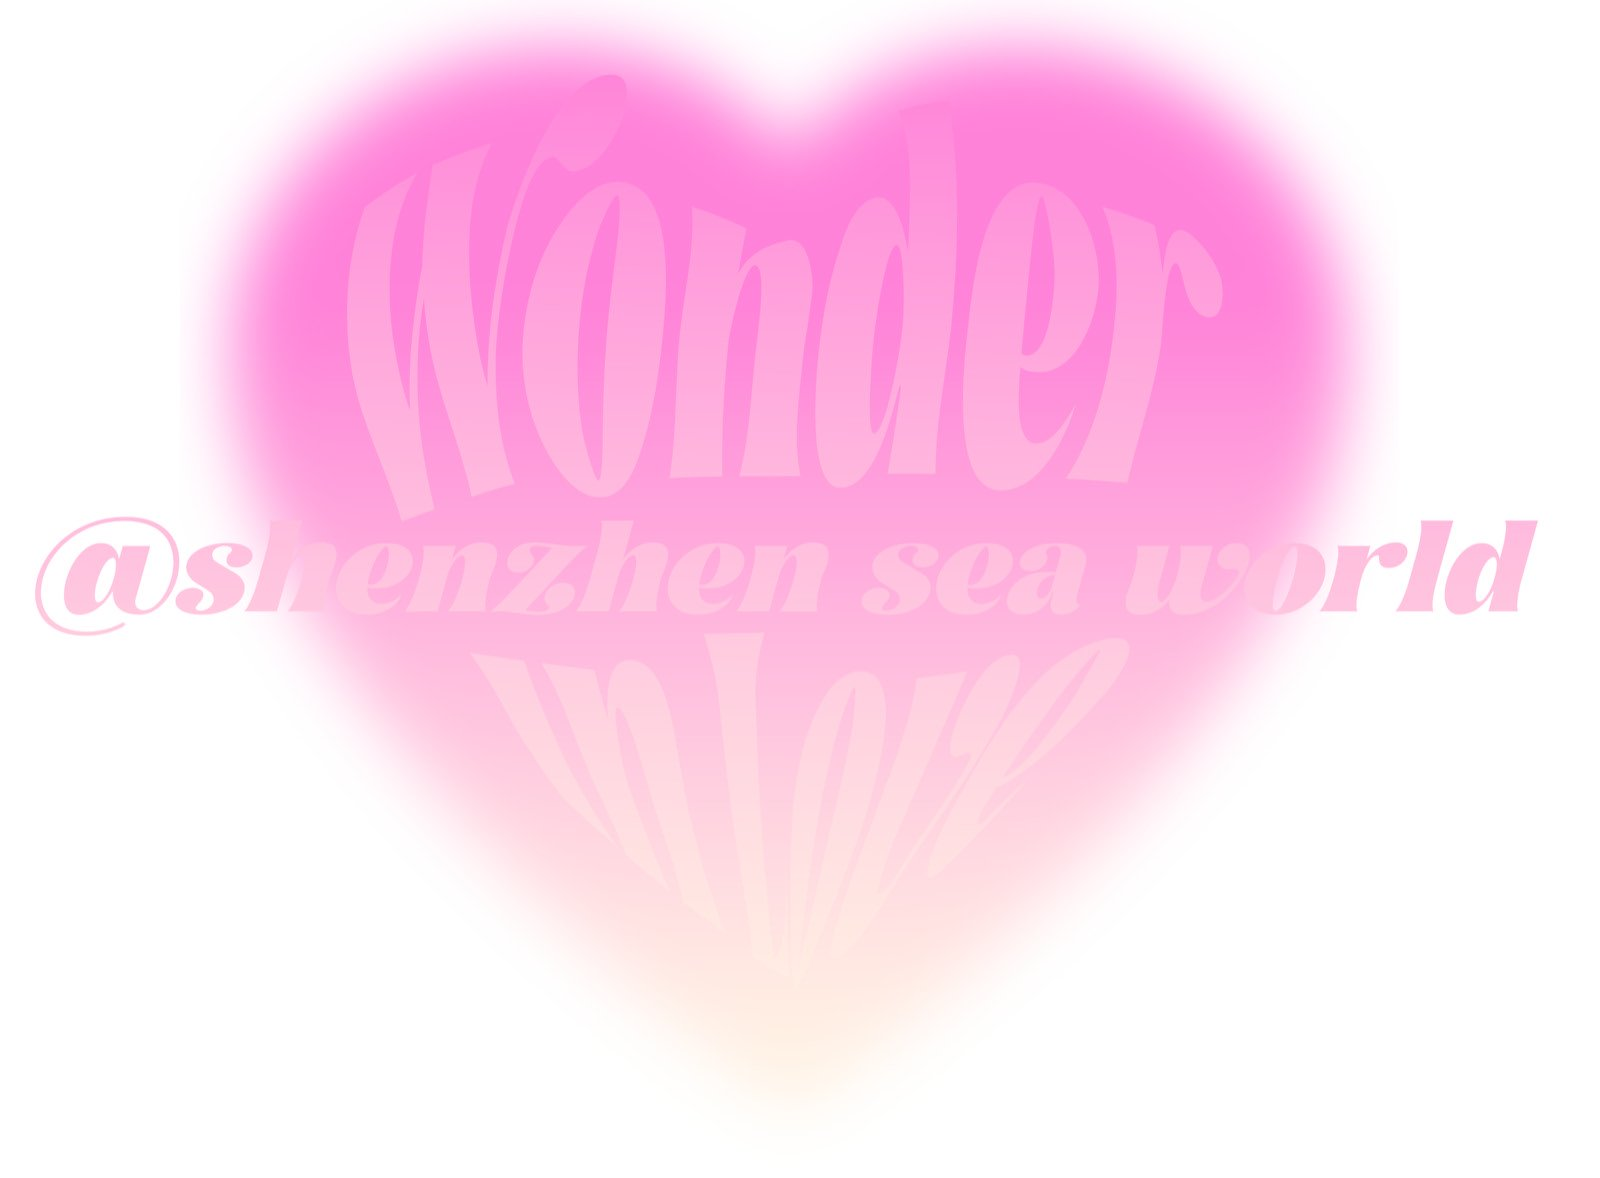
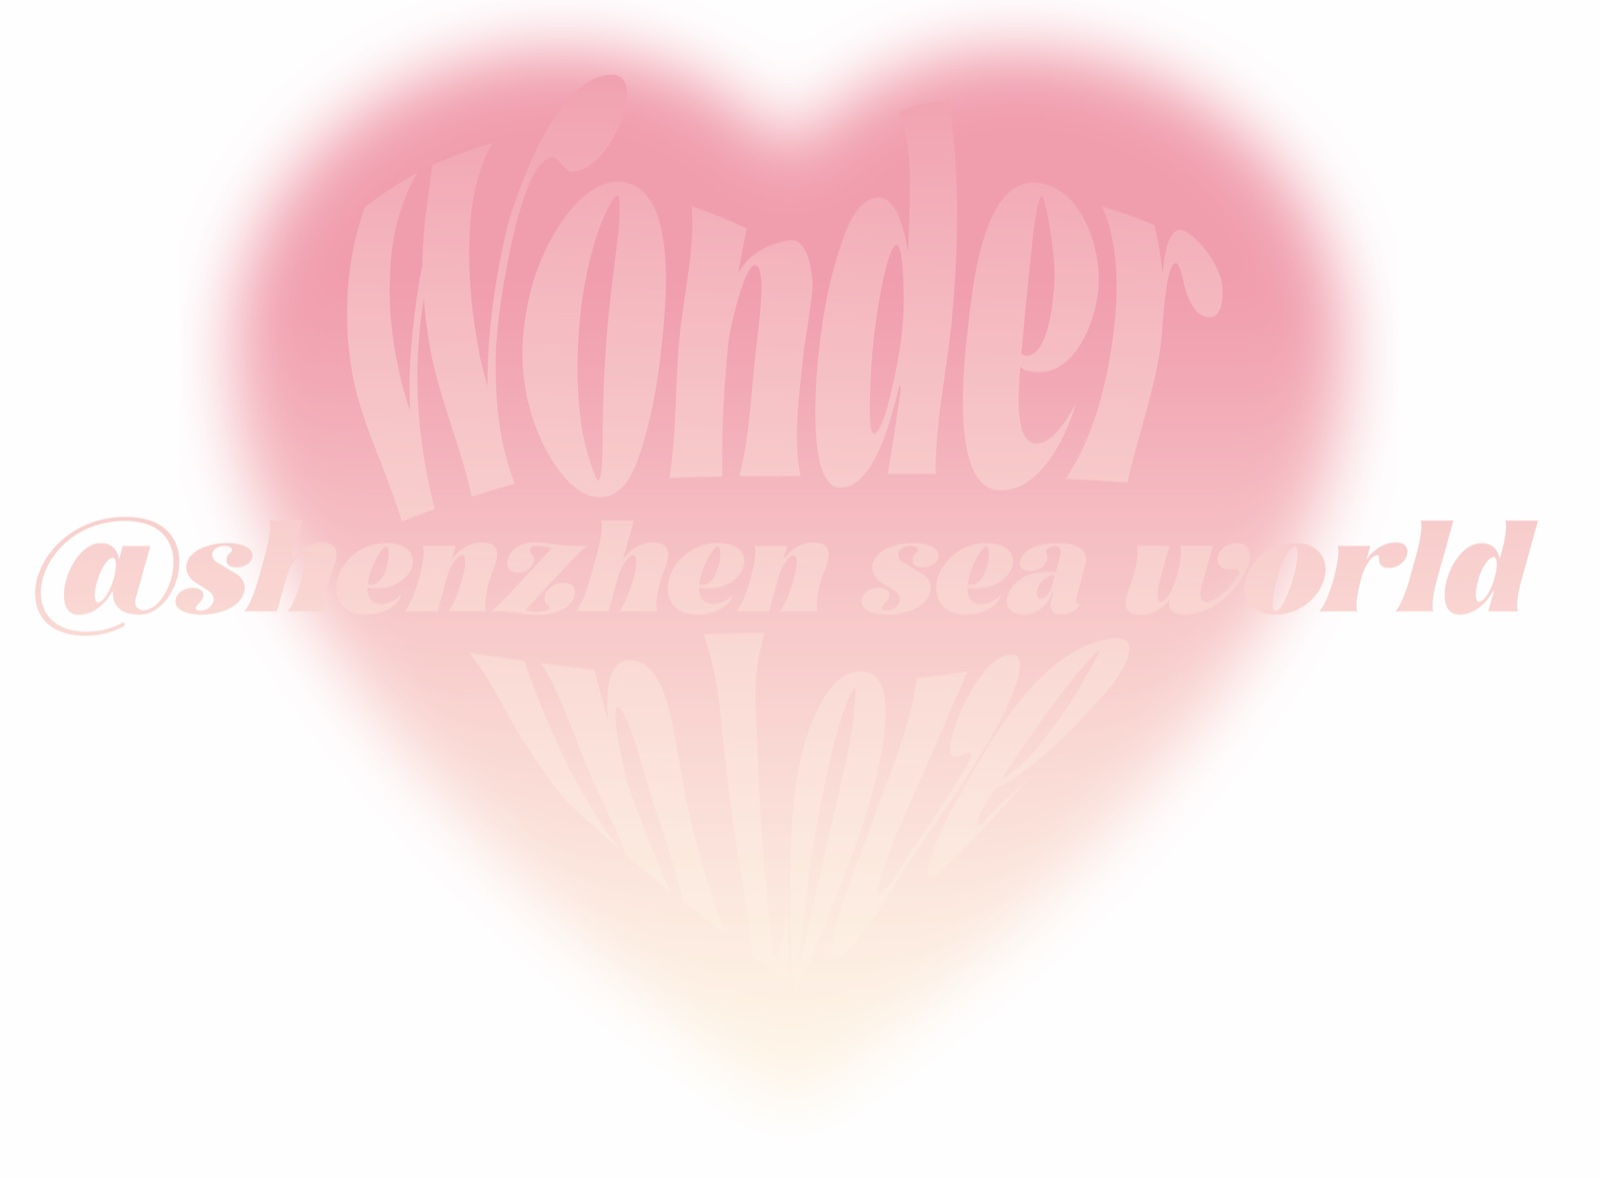
Valentine's Day: add poster series; cover back to standard colour conversion

Changed region(s): [[0.1562, 0.0306, 0.8438, 0.489]]

diff --git a/work/valentines-day.html b/work/valentines-day.html
@@ -42,6 +42,15 @@
     <figure class="project-figure place-left-lg">
       <img src="../assets/projects/work3-cover.jpg" alt="Wonder in love @shenzhen sea world 情人节主视觉">
     </figure>
+
+    <!-- 主视觉海报两张：并排靠右，与左侧封面错落 -->
+    <div class="pair-right">
+      <div class="project-row">
+        <figure class="project-figure" style="--ar: .5625"><img src="../assets/projects/work3-poster-01.jpg" alt="情人节主视觉 Wonder in love 爱意漫游" loading="lazy"></figure>
+        <figure class="project-figure" style="--ar: .5625"><img src="../assets/projects/work3-poster-02.jpg" alt="情人节主视觉 Wonder in Love 心形" loading="lazy"></figure>
+      </div>
+      <p class="project-caption">Valentine's Day Poster Series / 情人节主视觉</p>
+    </div>
   </div>
 
   <nav class="project-pager">
